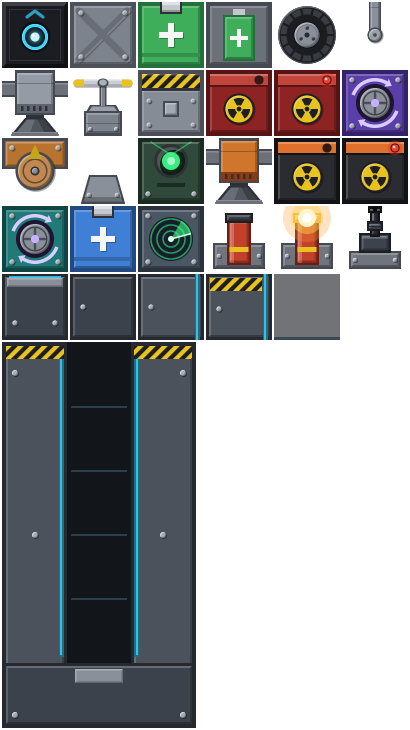
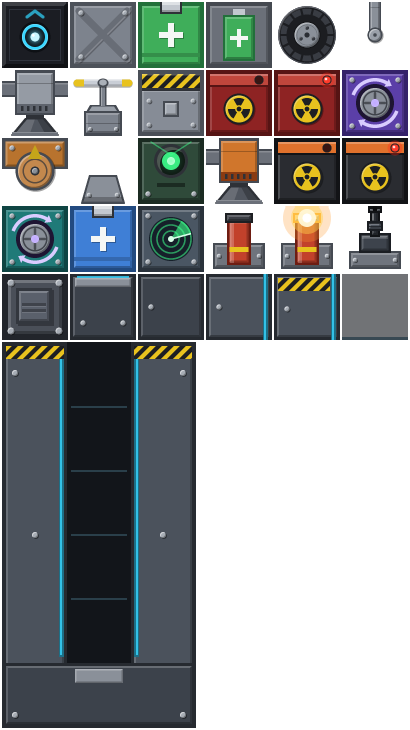
Batch: heavy armor plate part (armorplate, legend A): mass 5, health 250, shellDamage 0.1; sprite, sim parts armor line, tests, docs

Changed region(s): [[0.4683, 0.3616, 0.9951, 0.4822], [0.0, 0.3616, 0.1463, 0.4822], [0.1756, 0.3616, 0.322, 0.3918]]

diff --git a/packages/sim-core/test/armorPlate.test.ts b/packages/sim-core/test/armorPlate.test.ts
@@ -1,0 +1,51 @@
+import { describe, expect, it } from 'vitest';
+import flatJson from '../../../worlds/flat.json';
+import { parseWorldFile } from '../src/world/WorldFile';
+import { World } from '../src/world/World';
+import { blastEffects } from '../src/damage/explosion';
+import { defaultRegistry } from '../src/parts/registry';
+import { DEFAULT_LEGEND } from '../src/blueprint/legend';
+import type { ExplodeSpec } from '../src/parts/types';
+
+const flat = parseWorldFile(flatJson);
+const hold = (robot: number, key: string) => [{ robot, pressed: [key], released: [] }];
+const FIRE = [{ key: 'f', mode: 'hold', target: 'gun', channel: 'fire', value: 1 }];
+const GUN_CAR = { format: 1, name: 'gun-car', grid: ['C M>'], bindings: FIRE };
+/** A post of three armor plates, nobody's. */
+const POST = { format: 1, name: 'plate-post', grid: ['A', 'A', 'A'] };
+
+describe('heavy armor plate (Batch)', () => {
+  const def = defaultRegistry().get('armorplate');
+
+  it('is five frames heavy, 250 health, attaches on every face, takes a tenth of a shell', () => {
+    expect(def).toMatchObject({ mass: 5, health: 250, shellDamage: 0.1, powerDraw: 0 });
+    expect(def.footprint[0]?.faces).toEqual(['N', 'E', 'S', 'W']);
+    expect(def.mass).toBe(5 * defaultRegistry().get('frame').mass);
+    expect(DEFAULT_LEGEND.A).toEqual({ part: 'armorplate' });
+  });
+
+  it('a shell does 0.5 to it, not the 5 a core takes', async () => {
+    const w = await World.create({ seed: 1 }, flat);
+    const car = w.spawnBlueprint(GUN_CAR, { x: -100, y: 0.5 });
+    // A coreless blueprint is placed by its first part, the top of the post.
+    const post = w.spawnBlueprint(POST, { x: -80, y: 2.5 });
+    for (let i = 0; i < 20; i++) w.step();
+    w.step(hold(car.id, 'f'));
+    for (let i = 0; i < 40; i++) w.step();
+    const onPlate = w.events.filter((e) => e.kind === 'shellHit' && e.robot === post.id && e.part === 'armorplate@0,0');
+    expect(onPlate.length).toBeGreaterThanOrEqual(6);
+    expect(onPlate[0]).toMatchObject({ partType: 'armorplate', by: car.id, damage: 0.5 });
+    expect(post.parts.get('armorplate@0,0')?.health).toBeCloseTo(250 - 0.5 * onPlate.length, 9);
+    w.dispose();
+  });
+
+  it('a warhead blast at 1 m takes a lot off it but does not kill it', () => {
+    const warhead = defaultRegistry().get('warhead').onDestroyed?.explode as ExplodeSpec;
+    const fx = blastEffects({ x: 0, y: 0 }, warhead, [{ x: 1, y: 0, angle: 0 }], []);
+    const damage = fx.damage[0] as number;
+    expect(damage).toBeGreaterThan(50);
+    expect(damage).toBeLessThan(def.health);
+    // Right against the blast the full 120 still leaves half of it standing.
+    expect(blastEffects({ x: 0, y: 0 }, warhead, [{ x: 0, y: 0, angle: 0 }], []).damage[0]).toBeLessThan(def.health);
+  });
+});

diff --git a/packages/cli/test/parts.test.ts b/packages/cli/test/parts.test.ts
@@ -6,7 +6,7 @@ describe('parts', () => {
   const rows = partRows(defaultRegistry());
 
   it('has a row per part in builder order, with its key and legend tokens', () => {
-    expect(rows.map((r) => r.key)).toEqual(['1', '2', '3', '4', '5', '6', '7', '8', '9', '0', '-', '=', ';', "'", '/', '', '', '', '', '']);
+    expect(rows.map((r) => r.key)).toEqual(['1', '2', '3', '4', '5', '6', '7', '8', '9', '0', '-', '=', ';', "'", '/', '', '', '', '', '', '']);
     const thruster = rows.find((r) => r.id === 'thruster');
     expect(thruster).toMatchObject({ key: '5', legend: ['T^', 'T<', 'Tv', 'T>'], mass: 1, health: 25, faces: ['N', 'E', 'W'], power: 20 });
     expect(thruster?.details.join('\n')).toContain('maxForce 160 N');
@@ -19,6 +19,8 @@ describe('parts', () => {
     expect(rows.find((r) => r.id === 'densebattery')).toMatchObject({ key: '', legend: ['Z'] });
     expect(rows.find((r) => r.id === 'fabbay')).toMatchObject({ key: '', legend: [], mass: 13, health: 150 });
     expect(rows.find((r) => r.id === 'gun')).toMatchObject({ key: '', legend: ['M^', 'M<', 'Mv', 'M>'], mass: 1, faces: ['S'], health: 25, power: 0 });
+    expect(rows.find((r) => r.id === 'armorplate')).toMatchObject({ key: '', legend: ['A'], mass: 5, faces: ['N', 'E', 'S', 'W'], health: 250, power: 0 });
+    expect(rows.find((r) => r.id === 'armorplate')?.details.join('\n')).toMatch(/takes 0.1 of a shell's damage \(500 hits/);
     expect(rows.find((r) => r.id === 'flare')).toMatchObject({ key: '', legend: ['Q^', 'Q<', 'Qv', 'Q>'], mass: 0.2, faces: ['S'], health: 5 });
   });
 

diff --git a/packages/app/scripts/gen-placeholders.ts b/packages/app/scripts/gen-placeholders.ts
@@ -277,6 +277,22 @@ function drawFrame(): Canvas {
   return cv;
 }
 
+/** Batch: a heavy armor plate: a thick dark slab, a raised inner panel, big bolts at the corners. */
+function drawArmorPlate(): Canvas {
+  const cv = new Canvas(CELL, CELL);
+  plate(cv, 0, 0, CELL, CELL, hex('#4a4f58'), hex('#22252b'), 5, 3);
+  // Raised inner panel with a drop shadow.
+  cv.fill(rect(15, 15, 51, 51), BLACK, 0.3);
+  plate(cv, 13, 13, 49, 49, hex('#5a606b'), hex('#33373e'), 3, 2);
+  // Two shallow ribs across the panel.
+  cv.fill(rect(19, 28, 43, 31), BLACK, 0.3);
+  cv.fill(rect(19, 34, 43, 37), BLACK, 0.3);
+  cv.fill(rect(19, 31, 43, 32), WHITE, 0.12);
+  cv.fill(rect(19, 37, 43, 38), WHITE, 0.12);
+  for (const [x, y] of [[8, 8], [56, 8], [8, 56], [56, 56]] as const) rivet(cv, x, y, 3.4);
+  return cv;
+}
+
 function drawBattery(green = hex('#3fae5a'), edge = hex('#22703a')): Canvas {
   const cv = new Canvas(CELL, CELL);
   plate(cv, 0, 0, CELL, CELL, green, edge, 3);
@@ -960,6 +976,7 @@ function main(): void {
     { name: 'part.flare', canvas: drawFlare() },
     { name: 'part.flare.lit', canvas: drawFlare(true) },
     { name: 'part.gun', canvas: drawGun() },
+    { name: 'part.armorplate', canvas: drawArmorPlate() },
     { name: 'part.fabbay', canvas: drawFabBay() },
     { name: 'part.fabbay.floor', canvas: drawFabTile('floor') },
     { name: 'part.fabbay.corner', canvas: drawFabTile('corner') },

diff --git a/packages/cli/src/commands/parts.ts b/packages/cli/src/commands/parts.ts
@@ -77,6 +77,7 @@ function details(d: PartDef): string[] {
     out.push(`gun: while fire is above 0.5, ${g.rate} shells a second out of its ${d.acts ?? 'N'} face at ${g.speed} m/s; a shell falls under gravity, takes ${g.damage} off the first part it hits (anyone's, friends and its own robot too) and is gone after ${g.life} s; each leaves up to ${g.spread} degrees off the barrel's line (center weighted, the same every replay); ${g.recoil} N s of kick per shot; no energy`);
     out.push(`gun sight: looks ${g.range} m straight out of the barrel: sight (meters to the first thing, ${g.range} for nothing), sightSide (0 nothing, 1 own robot, 2 friend, 3 enemy, 4 nobody's, 5 terrain), sightId (the robot's contact id), aim (the barrel's world angle, radians)`);
   }
+  if (d.shellDamage !== undefined) out.push(`armor: takes ${d.shellDamage} of a shell's damage (${Math.ceil(d.health / (5 * d.shellDamage))} hits from a 5 damage shell); blasts hurt it in full`);
   if (d.impact) out.push(`${d.arming ? 'once armed, ' : ''}breaks when a hit stops it by more than ${d.impact.speed} m/s (a fall of about ${((d.impact.speed * d.impact.speed) / (2 * G)).toFixed(1)} m)`);
   return out;
 }

diff --git a/packages/sim-core/test/partDefs.test.ts b/packages/sim-core/test/partDefs.test.ts
@@ -38,6 +38,7 @@ describe('default part defs', () => {
       'flare',
       'fabbay',
       'gun',
+      'armorplate',
     ]);
   });
 
@@ -47,7 +48,7 @@ describe('default part defs', () => {
 
   it('health (M6): frames are armor, propellers are fragile', () => {
     const health = Object.fromEntries(defaultRegistry().list().map((d) => [d.id, d.health]));
-    expect(health).toEqual({ core: 50, frame: 60, battery: 30, wheel: 25, thruster: 25, propeller: 15, decoupler: 30, warhead: 20, gyro: 30, rotator: 40, cell: 10, seeker: 20, radar: 40, booster: 25, heavywarhead: 20, heavygyro: 30, densebattery: 30, flare: 5, fabbay: 150, gun: 25 });
+    expect(health).toEqual({ core: 50, frame: 60, battery: 30, wheel: 25, thruster: 25, propeller: 15, decoupler: 30, warhead: 20, gyro: 30, rotator: 40, cell: 10, seeker: 20, radar: 40, booster: 25, heavywarhead: 20, heavygyro: 30, densebattery: 30, flare: 5, fabbay: 150, gun: 25, armorplate: 250 });
   });
 
   it('the warhead explodes when destroyed and breaks on a hard hit', () => {

diff --git a/packages/sim-core/test/validate.test.ts b/packages/sim-core/test/validate.test.ts
@@ -29,7 +29,7 @@ describe('validateBlueprint', () => {
     expect(i).toEqual({
       severity: 'error',
       code: 'UNKNOWN_PART',
-      message: "zap@0,0 uses part 'zap', which does not exist (known: core, frame, battery, wheel, thruster, propeller, decoupler, warhead, gyro, rotator, cell, seeker, radar, booster, heavywarhead, heavygyro, densebattery, flare, fabbay, gun)",
+      message: "zap@0,0 uses part 'zap', which does not exist (known: core, frame, battery, wheel, thruster, propeller, decoupler, warhead, gyro, rotator, cell, seeker, radar, booster, heavywarhead, heavygyro, densebattery, flare, fabbay, gun, armorplate)",
       partId: 'zap@0,0',
       cell: { x: 0, y: 0 },
     });

diff --git a/packages/sim-core/src/parts/registry.ts b/packages/sim-core/src/parts/registry.ts
@@ -20,6 +20,7 @@ import densebattery from './defs/densebattery.json';
 import flare from './defs/flare.json';
 import fabbay from './defs/fabbay.json';
 import gun from './defs/gun.json';
+import armorplate from './defs/armorplate.json';
 
 export class PartRegistry {
   private readonly defs = new Map<string, PartDef>();
@@ -72,6 +73,7 @@ const SHIPPED: Array<[string, unknown]> = [
   ['flare.json', flare],
   ['fabbay.json', fabbay],
   ['gun.json', gun],
+  ['armorplate.json', armorplate],
 ];
 
 let shipped: PartRegistry | null = null;

diff --git a/packages/sim-core/src/blueprint/legend.ts b/packages/sim-core/src/blueprint/legend.ts
@@ -45,6 +45,7 @@ export const DEFAULT_LEGEND: Readonly<Record<string, LegendEntry>> = {
   Mv: { part: 'gun', rot: 180 },
   'M<': { part: 'gun', rot: 90 },
   'M>': { part: 'gun', rot: 270 },
+  A: { part: 'armorplate' },
   R: { part: 'rotator', rot: 0 },
   Rv: { part: 'rotator', rot: 180 },
   'R<': { part: 'rotator', rot: 90 },

diff --git a/docs/claude-robot-playbook.md b/docs/claude-robot-playbook.md
@@ -98,7 +98,7 @@ function tick() {
 
 ## Numbers that matter
 Run `pnpm sim parts` for the full table. g is 9.81.
-- **Mass (kg):** core 2, frame 1, battery 3, cell 0.5, wheel 1.5, thruster 1, propeller 1, decoupler 1, warhead 1, gyro 1, rotator 1.5, seeker 0.3, radar 1, booster 1.5, heavy warhead 1.5, heavy gyro 1.5, dense battery 3, flare 0.2, gun 1, fabricator bay 13.
+- **Mass (kg):** core 2, frame 1, battery 3, cell 0.5, wheel 1.5, thruster 1, propeller 1, decoupler 1, warhead 1, gyro 1, rotator 1.5, seeker 0.3, radar 1, booster 1.5, heavy warhead 1.5, heavy gyro 1.5, dense battery 3, flare 0.2, gun 1, fabricator bay 13, heavy armor plate 5.
 - **Push:** thruster 160 N (20 J/s), propeller 120 N (10 J/s), both along their arrow (Gate 6: Logan raised both). Lift must beat weight: a flier needs thrust-to-weight well above 1 (1.5 to 2 hovers with room to climb; the missile flies at about 3). Propellers only push along their arrow; a drone moves sideways by leaning.
 - **Missile parts (Gate 7):** booster 400 N (60 J/s), heavy gyro 200 N m (15 J/s), heavy warhead 250 damage out to 4 m. Every homing missile uses all three: without lift or fins, a missile turns only by swinging its nose with a gyro and pointing its push, so the gyro sets how tight it can turn.
 - **Turning:** a gyro gives 40 N m. That is plenty for a small robot and far too little for a wide heavy one: a 38 kg, 11-wide drone needs its left and right propellers throttled differently to lean (see `missile-drone.hover.js`). Rotators hold 600 N m and turn at most 2 rad/s, within plus or minus 90 degrees.
@@ -107,6 +107,7 @@ Run `pnpm sim parts` for the full table. g is 9.81.
 - **Energy:** core 600 J, battery 1500 J, dense battery 6000 J (3 kg, blue), cell 250 J. Draw at full input per second: thruster 20, propeller 10, wheel 5, gyro 5, rotator 3, radar 3, seeker 1. The 6-propeller missile drone uses about 30 J/s hovering, about two minutes on two batteries. Out of energy, nothing moves.
 - **Damage:** a warhead does 120 at its center falling to 0 at 3 m, halved by every part in the way, and pushes things away up to 5 m. Health: frame 60, core 50, battery and decoupler and gyro 30, thruster and wheel 25, warhead 20, propeller 15, cell 10. A core right next to a warhead dies.
 - **Guns (M13):** 10 shells a second at 300 m/s, 5 damage each to the first part in the way, gone after 1 s (300 m). Each leaves up to 0.5 degrees off the barrel's line (`spread`, center weighted, the same every replay): about 0.9 m either way at 100 m, 2 m at 250 m, so guns are sure up close and scatter far out. An armed warhead goes off at the first hit (its impact fuze: a shell is a hard knock; unarmed, 4 hits), a propeller breaks in 3, a gun in 5, a frame in 48 (frames take a quarter of a shell's damage, `shellDamage` 0.25; blasts are unchanged). A shell falls about 0.5 m over 100 m and 2.2 m over 200 m.
+- **Heavy armor plate (Batch, legend `A`):** 5 kg, 250 health, takes a tenth of a shell (0.5 a hit: 500 hits; a frame is 48, a core 10). Blasts are not softened: a warhead at 1 m does about 80, so a plate beside a warhead survives where a frame dies. Put it between a gun and what it protects, or as a warhead's shield; it is heavy, so a flier pays 5 kg of lift for each one.
 - **Fuze:** a warhead goes off when a hit changes its speed by more than 5 m/s in one step: a fall of about 1.3 m, a landing, a missile clipping a box. A robot with a warhead must not be deployed high in the air or land hard.
 
 ## Placing one blueprint on another

diff --git a/docs/design/02-parts-and-blueprints.md b/docs/design/02-parts-and-blueprints.md
@@ -61,6 +61,7 @@ Numbers are first guesses to be tuned in one place (Q7). Faces listed are attach
 | fabbay | 1 per cell (13 at its default) | 150 | outer faces; grips on its hollow | release (lets go) | ready, progress, built | M12. A fabricator bay (see Fabricators): a U open at the top whose hollow is sized where it is placed (`size`, 1 to 8 wide, 1 to 10 tall; default 1 by 5). Builds its recipe (`makes`) from energy. No legend token (it always needs `makes`), no builder key. |
 | flare | 0.2 | 5 | S (its base) | ignite (lights it for good) | burning | M11. A decoy (see Decoys): burns 2 s once lit, then is gone without a blast; while it burns, sensors take it for its robot. Legend `Q^ Qv Q< Q>` (the way it points), no builder key. |
 | gun | 1 | 25 | S (its base) | fire (while above 0.5) | sight, sightSide, sightId, aim | M13. A gun (see Guns): 10 shells a second out of its front at 300 m/s, 5 damage to the first part each hits (anyone's), 2 N s of kick; its sight looks 150 m straight out of the barrel. No energy. Legend `M^ Mv M< M>` (the way it fires), no builder key. |
+| armorplate | 5 | 250 | N E S W | | | Batch. Heavy armor plate: five frames of mass, 250 health, and `shellDamage` 0.1 (a 5 damage shell does 0.5: 500 hits; a frame takes 48). Blasts hurt it in full, but a warhead at 1 m does about 80 of its 250, so it stands a blast a frame does not. No energy. Legend `A`, no builder key. Very heavy on purpose: a flier needs lift for every plate. |
 
 Health and blasts are tuned together (M6, `03`): a warhead does 120 at its center, falling to 0 at 3 m, so a lone frame breaks within 1.5 m, a battery within 2.25 m, a propeller within 2.6 m, and every part in the way halves it.
 
